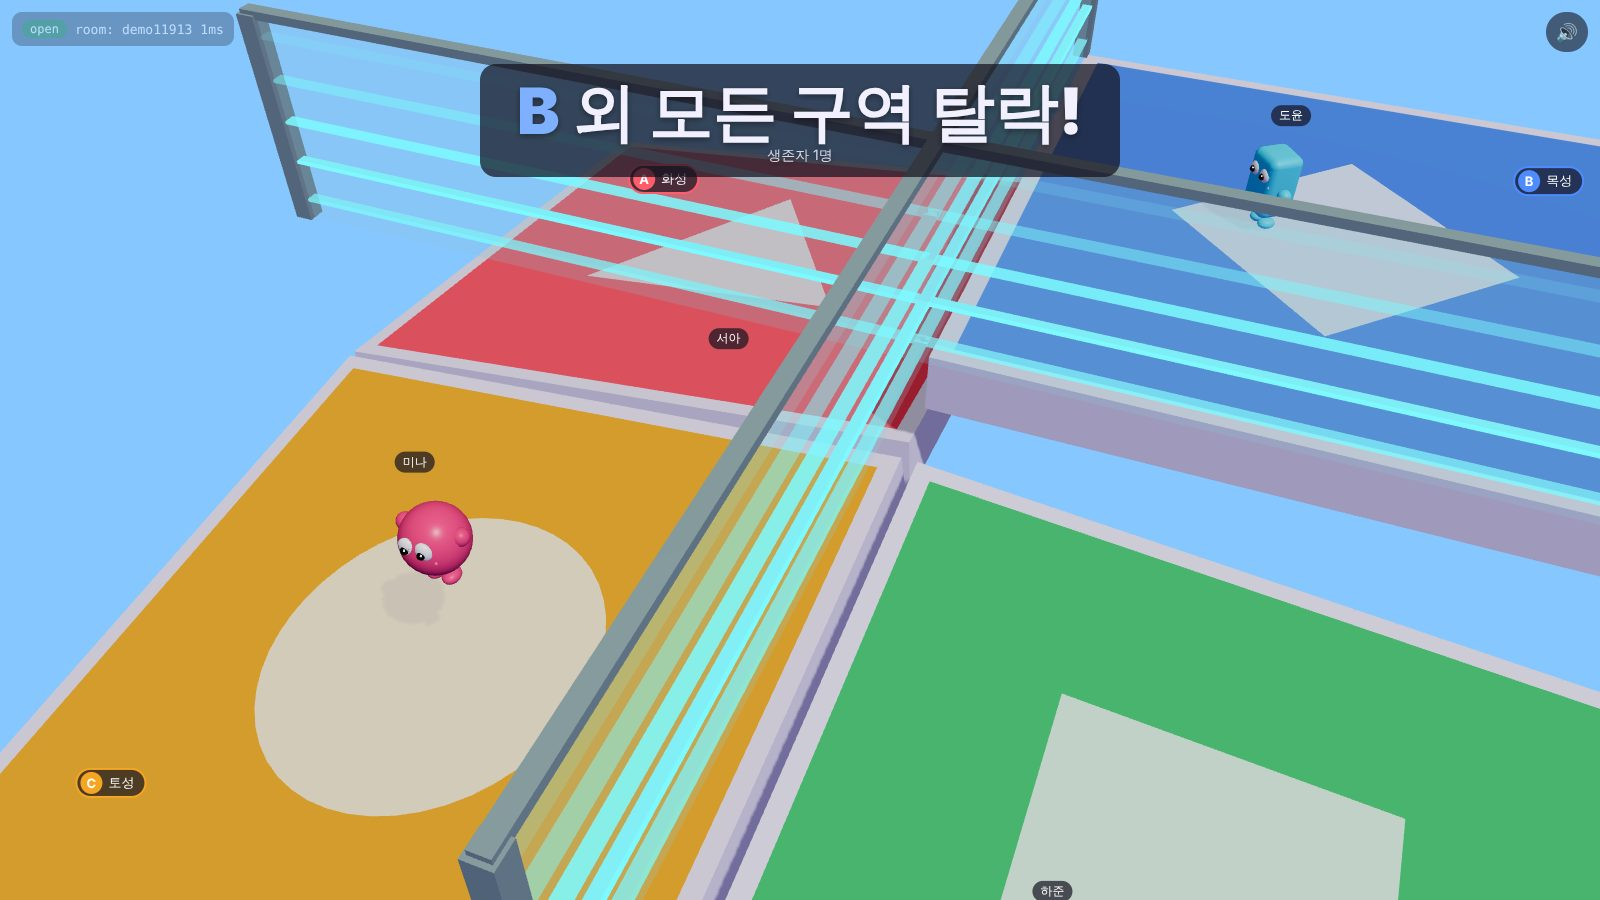
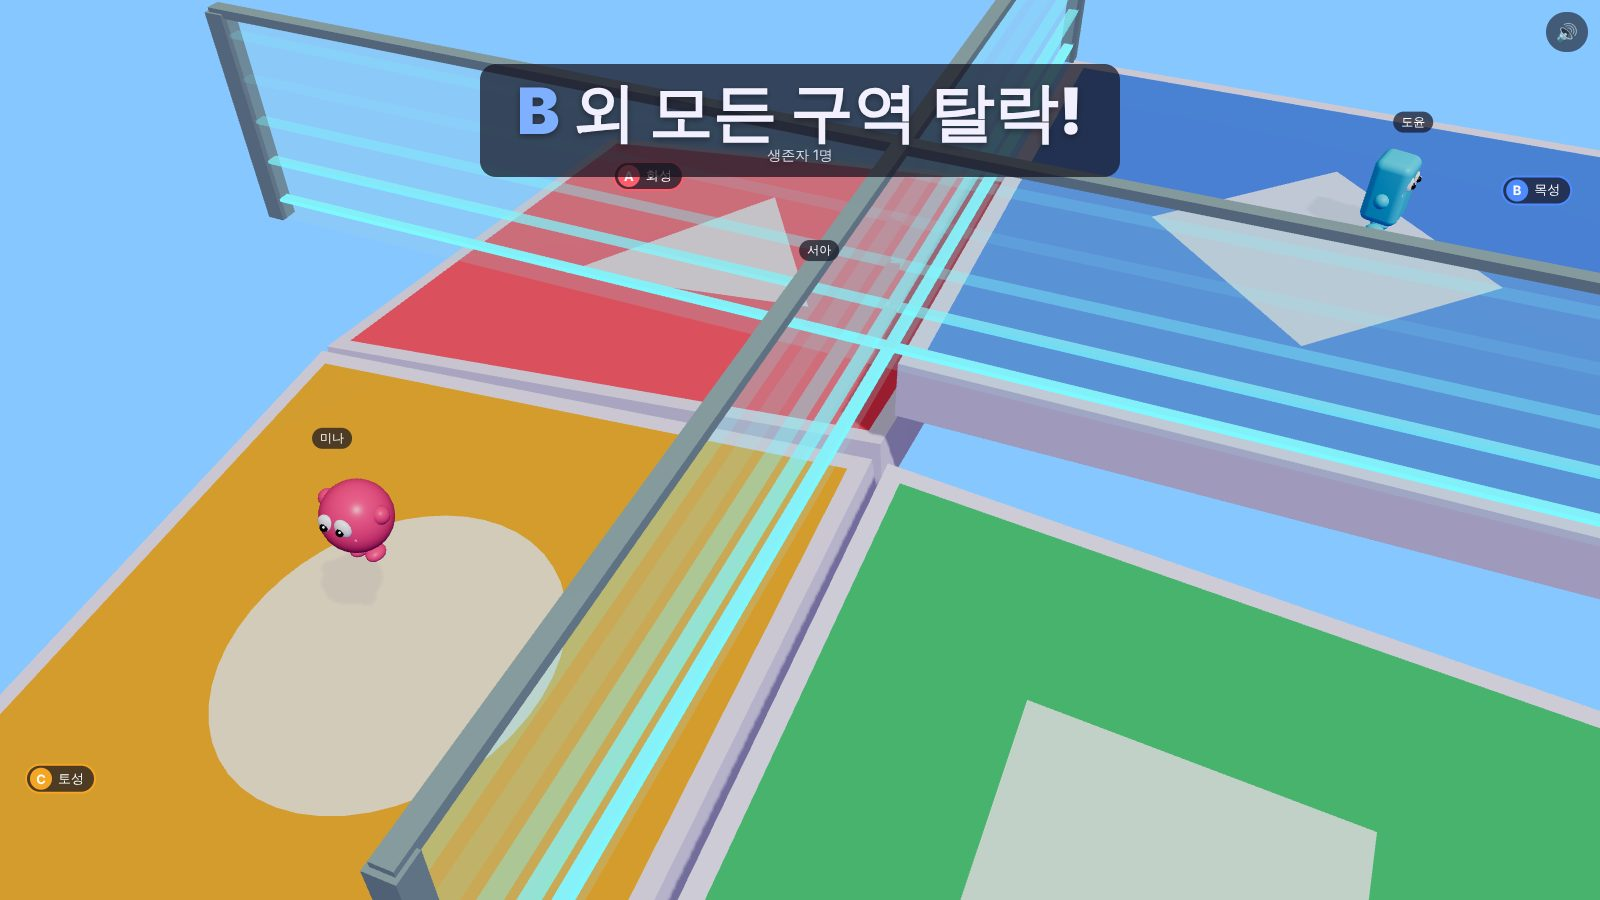
Simplify the player screen, fix Space re-clicking buttons, move grandstand across the board
- Remove the top-left status box (connection/room/latency/name/count) on /play
  and /display; show a small notice only while connecting or disconnected;
  control hint fades out after a few seconds
- Overlay buttons no longer keep keyboard focus, so pressing Space to jump
  can't re-trigger 'to board/stand', mute or leave
- Sound toggle joins the corner button row so the long autoplay label never
  overlaps Leave / spot buttons
- Grandstand moved to the far side of the board (-z): survivors see it ahead
  of them, and from the stand the board is straight ahead
- Grandstand label sits on the front wall and is hidden for players inside
- Retook README screenshots

Claude-Session: https://claude.ai/code/session_01BAZKdNH3MbDUtaJ8Sq72wR

diff --git a/frontend/src/pages/PlayPage.tsx b/frontend/src/pages/PlayPage.tsx
@@ -4,9 +4,10 @@ import { CLOSE_CODE, MAX_PLAYERS_PER_ROOM, isLobbyPhase } from "@quiz/shared";
 import { Canvas } from "@react-three/fiber";
 import { KeyboardControls } from "@react-three/drei";
 import { Physics } from "@react-three/rapier";
-import { ConnectionStatus } from "../components/ConnectionStatus";
+import { ConnectionNotice } from "../components/ConnectionNotice";
 import { useRoomConnection } from "../lib/useRoomConnection";
-import { useGameStore, useSelf, useSelfAlive } from "../store/useGameStore";
+import { stageButtonGuard } from "../lib/stageButtonGuard";
+import { useGameStore, useSelfAlive } from "../store/useGameStore";
 import { QuizBanner } from "../components/QuizBanner";
 import { SoundToggle } from "../components/SoundToggle";
 import { useGameAudio } from "../audio/useGameAudio";
@@ -47,7 +48,7 @@ function PlayScene() {
 
   return (
     <KeyboardControls map={KEYBOARD_MAP}>
-      <div className="stage">
+      <div className="stage" {...stageButtonGuard}>
         <Canvas shadows camera={{ position: CAMERA_OFFSET, fov: 50 }} dpr={[1, 2]}>
           <Suspense fallback={null}>
             <Physics gravity={PHYSICS_GRAVITY}>
@@ -58,15 +59,17 @@ function PlayScene() {
           </Suspense>
         </Canvas>
 
-        <PlayHud />
-        <SoundToggle />
+        <ConnectionNotice />
         <PlayCorner />
         <QuizBanner showSelfStatus />
         {/* 탈락 후에도 관전석에서 움직일 수 있으므로 조작 UI 유지 */}
         {showJoystick ? (
           <VirtualJoystick />
         ) : (
-          <div className="hint">{alive ? "WASD / 방향키 이동 · Space 점프" : "관전석 · WASD 이동 · Space 점프"}</div>
+          // 조작 안내는 처음 몇 초만 보이고 사라짐 (관전석으로 이동하면 다시 잠깐)
+          <div className="hint fade" key={alive ? "board" : "stand"}>
+            {alive ? "WASD / 방향키 이동 · Space 점프" : "관전석 · WASD 이동 · Space 점프"}
+          </div>
         )}
       </div>
     </KeyboardControls>
@@ -95,24 +98,6 @@ function SelfPlayer() {
       name={spawn.name}
       alive={alive}
     />
-  );
-}
-
-function PlayHud() {
-  const self = useSelf();
-  const count = useGameStore((s) => s.playerIds.length);
-  return (
-    <div className="hud">
-      <ConnectionStatus />
-      <div className="row mono" style={{ marginTop: 4 }}>
-        {self && (
-          <span>
-            <span style={{ color: self.color }}>●</span> {self.name}
-          </span>
-        )}
-        <span>참가자 {count}명</span>
-      </div>
-    </div>
   );
 }
 
@@ -155,6 +140,7 @@ function PlayCorner() {
 
   return (
     <div className="play-corner">
+      <SoundToggle inline />
       <button
         type="button"
         className="corner-btn"

diff --git a/frontend/src/game/SpectatorZone.tsx b/frontend/src/game/SpectatorZone.tsx
@@ -3,7 +3,7 @@ import { useFrame } from "@react-three/fiber";
 import { Html } from "@react-three/drei";
 import { CuboidCollider, RigidBody } from "@react-three/rapier";
 import type { Group, MeshStandardMaterial } from "three";
-import { SPECTATOR_ZONES, THROW_PADS, THROW_PAD_SIZE, type SpectatorZoneDef } from "@quiz/shared";
+import { SPECTATOR_ZONES, THROW_PADS, THROW_PAD_SIZE, isLobbyPhase, type SpectatorZoneDef } from "@quiz/shared";
 import { useGameStore } from "../store/useGameStore";
 import { audio } from "../audio/AudioManager";
 
@@ -83,9 +83,7 @@ function SpectatorBox({ zone, index }: { zone: SpectatorZoneDef; index: number }
         <Launcher key={p.index} position={[depth / 2, wh + 0.1, p.local[1]]} />
       ))}
 
-      <Html position={[-depth / 2, wh + 0.8, 0]} center zIndexRange={[10, 0]}>
-        <div className="zone-label">관전석 · 분홍 버튼을 밟으면 방해물 발사!</div>
-      </Html>
+      <ZoneLabel position={[depth / 2, wh + 0.9, 0]} />
     </RigidBody>
   );
 }
@@ -98,6 +96,24 @@ const BUTTON = {
   /** 눌렸을 때 버튼이 내려가는 깊이 */
   travel: 0.2,
 };
+
+/**
+ * 관전석 앞벽 위 안내 라벨 — 보드 쪽(생존자·송출 화면)에서 보이도록.
+ * 관전석 안에 있는 사람에게는 배너/배지로 안내하므로 숨긴다 (보드 한가운데 떠 보이지 않게).
+ */
+function ZoneLabel({ position }: { position: [number, number, number] }) {
+  const inStand = useGameStore((s) => {
+    const me = s.selfId ? s.players[s.selfId] : undefined;
+    if (!me) return false;
+    return !me.alive || (s.lobbySpot === "stand" && isLobbyPhase(s.game.phase));
+  });
+  if (inStand) return null;
+  return (
+    <Html position={position} center zIndexRange={[10, 0]}>
+      <div className="zone-label">관전석 · 분홍 버튼을 밟으면 방해물 발사!</div>
+    </Html>
+  );
+}
 
 /**
  * 투척 버튼 — 둥근 받침대 위에 튀어나온 입체 버튼 + sensor 충돌체.

diff --git a/frontend/src/index.css b/frontend/src/index.css
@@ -409,7 +409,9 @@ td, th { text-align: left; padding: 4px 6px; border-bottom: 1px solid #3b3755; }
 .spot-note { display: block; margin-top: 6px; opacity: .65; font-size: 12px; }
 @media (max-width: 400px) { .spot-grid { grid-template-columns: 1fr; } }
 
-.play-corner { position: absolute; top: 12px; right: 60px; z-index: 25; display: flex; gap: 6px; }
+/* 오른쪽 위 버튼 줄: [사운드] [나가기] [관전석으로] — 폭이 바뀌어도 서로 겹치지 않게 한 줄로 */
+.play-corner { position: absolute; top: 12px; right: 12px; z-index: 25; display: flex; flex-direction: row-reverse; gap: 6px; align-items: center; }
+.sound-toggle.inline { position: static; }
 .corner-btn {
   height: 40px; padding: 0 12px; border: 0; border-radius: 999px; cursor: pointer;
   background: rgba(20, 18, 31, .6); color: #fff; font-size: 14px; white-space: nowrap;
@@ -426,3 +428,11 @@ td, th { text-align: left; padding: 4px 6px; border-bottom: 1px solid #3b3755; }
   .corner-btn { height: 36px; font-size: 13px; }
   .spectator-pill { bottom: 250px; }
 }
+
+/* ───── 참가자 화면 단순화 ───── */
+.connection-notice {
+  position: absolute; top: 12px; left: 12px; z-index: 25; pointer-events: none;
+  background: rgba(20, 18, 31, .75); padding: 8px 14px; border-radius: 999px; font-size: 14px;
+}
+.connection-notice.error { background: rgba(163, 58, 74, .9); }
+.hint.fade { animation: fade-out .8s ease-in 6s forwards; }

diff --git a/frontend/src/pages/DisplayPage.tsx b/frontend/src/pages/DisplayPage.tsx
@@ -1,12 +1,13 @@
 import { Suspense } from "react";
 import { Canvas } from "@react-three/fiber";
 import { Physics } from "@react-three/rapier";
-import { ConnectionStatus } from "../components/ConnectionStatus";
+import { ConnectionNotice } from "../components/ConnectionNotice";
 import { QuizBanner } from "../components/QuizBanner";
 import { SoundToggle } from "../components/SoundToggle";
 import { ThrowFeed } from "../components/ThrowFeed";
 import { useGameAudio } from "../audio/useGameAudio";
 import { useRoomConnection } from "../lib/useRoomConnection";
+import { stageButtonGuard } from "../lib/stageButtonGuard";
 import { World } from "../game/World";
 import { PHYSICS_GRAVITY } from "../game/constants";
 import { RemotePlayers } from "../game/RemotePlayers";
@@ -21,7 +22,7 @@ export default function DisplayPage() {
   useGameAudio("display");
 
   return (
-    <div className="stage">
+    <div className="stage" {...stageButtonGuard}>
       <Canvas shadows dpr={[1, 2]}>
         <CameraDirector />
         <Suspense fallback={null}>
@@ -34,9 +35,7 @@ export default function DisplayPage() {
       <QuizBanner />
       <SoundToggle />
       <ThrowFeed />
-      <div className="hud display-hud">
-        <ConnectionStatus />
-      </div>
+      <ConnectionNotice />
     </div>
   );
 }

diff --git a/frontend/src/lib/stageButtonGuard.ts b/frontend/src/lib/stageButtonGuard.ts
@@ -1,0 +1,25 @@
+import type { KeyboardEvent, MouseEvent } from "react";
+
+/**
+ * 3D 게임 화면(.stage) 위 버튼들이 키보드 포커스를 가져가지 않게 하는 이벤트 핸들러 묶음.
+ *
+ * 버튼을 클릭하면 브라우저가 그 버튼에 포커스를 남기고, 이후 Space(점프)를 누르면
+ * 그 버튼이 다시 "클릭"된다 → 관전석 버튼이 보드로 바뀌거나, 음소거가 토글되는 버그.
+ *  - 클릭 직후 포커스 해제
+ *  - 포커스된 버튼에서 Space/Enter 기본 동작(클릭) 차단 → 게임 조작으로만 쓰이게
+ *
+ * 사용: <div className="stage" {...stageButtonGuard}>
+ */
+export const stageButtonGuard = {
+  onClickCapture(e: MouseEvent<HTMLElement>) {
+    const btn = (e.target as HTMLElement).closest("button");
+    // 클릭 핸들러(확인창 등)가 끝난 뒤에 포커스 해제
+    if (btn) setTimeout(() => btn.blur(), 0);
+  },
+  onKeyDownCapture(e: KeyboardEvent<HTMLElement>) {
+    if ((e.code === "Space" || e.key === "Enter") && (e.target as HTMLElement).closest("button")) {
+      e.preventDefault();
+      (e.target as HTMLElement).blur();
+    }
+  },
+};

diff --git a/frontend/src/components/SoundToggle.tsx b/frontend/src/components/SoundToggle.tsx
@@ -2,12 +2,12 @@ import { audio } from "../audio/AudioManager";
 import { useAudioState } from "../audio/useGameAudio";
 
 /** 우측 상단 음소거 토글. 브라우저가 소리를 막고 있으면 "사운드 켜기" 안내로 바뀜 */
-export function SoundToggle() {
+export function SoundToggle({ inline = false }: { inline?: boolean }) {
   const { muted, locked } = useAudioState();
 
   if (locked && !muted) {
     return (
-      <button type="button" className="sound-toggle locked" aria-label="사운드 켜기" onClick={() => audio.unlock()}>
+      <button type="button" className={`sound-toggle locked ${inline ? "inline" : ""}`} aria-label="사운드 켜기" onClick={() => audio.unlock()}>
         🔇<span className="sound-toggle-label"> 클릭해서 사운드 켜기</span>
       </button>
     );
@@ -15,7 +15,7 @@ export function SoundToggle() {
   return (
     <button
       type="button"
-      className="sound-toggle"
+      className={`sound-toggle ${inline ? "inline" : ""}`}
       aria-label={muted ? "소리 켜기" : "소리 끄기"}
       aria-pressed={muted}
       onClick={() => audio.setMuted(!muted)}

diff --git a/shared/src/protocol.ts b/shared/src/protocol.ts
@@ -279,11 +279,13 @@ const GRANDSTAND_SIZE: [number, number] = [8, 36];
 const GRANDSTAND_GAP = 4;
 
 /**
- * 관전석 — 메인 카메라 기준 보드 정면 앞쪽(+z)에 가로로 길게 뻗은 단일 관전석.
+ * 관전석 — 보드 건너편(-z)에 가로로 길게 뻗은 단일 관전석.
+ *  - 생존자 카메라는 +z 쪽에서 -z 를 바라보므로, 생존자 화면에서 관전석이 정면(화면 위쪽)에 보인다
+ *  - 관전석에 들어가면 반대로 +z(보드 쪽)를 바라봐서 정면에 생존자석(보드)이 보인다
  * 앞벽(보드 쪽)을 따라 투척 버튼 5개가 같은 간격으로 놓인다.
  */
 export const SPECTATOR_ZONES: readonly SpectatorZoneDef[] = [
-  makeZone(0, BOARD_SIZE / 2 + GRANDSTAND_GAP + GRANDSTAND_SIZE[0] / 2, GRANDSTAND_SIZE, [-14, -7, 0, 7, 14]),
+  makeZone(0, -(BOARD_SIZE / 2 + GRANDSTAND_GAP + GRANDSTAND_SIZE[0] / 2), GRANDSTAND_SIZE, [-14, -7, 0, 7, 14]),
 ];
 
 /** 관전석 로컬 좌표(lx: 앞뒤, lz: 좌우) → 월드 (x, z) */

diff --git a/frontend/src/components/ConnectionNotice.tsx b/frontend/src/components/ConnectionNotice.tsx
@@ -1,0 +1,17 @@
+import { useGameStore } from "../store/useGameStore";
+
+/**
+ * 연결에 문제가 있을 때만 나타나는 작은 안내 (/play, /display).
+ * 평소(연결됨)에는 아무것도 보여주지 않아 화면을 깔끔하게 유지한다.
+ */
+export function ConnectionNotice() {
+  const status = useGameStore((s) => s.status);
+  const hasJoined = useGameStore((s) => !!s.selfId);
+  if (status === "open" && hasJoined) return null;
+  const text = status === "closed" ? "연결이 끊겼어요 · 다시 연결하는 중…" : "연결하는 중…";
+  return (
+    <div className={`connection-notice ${status === "closed" ? "error" : ""}`} role="status">
+      {text}
+    </div>
+  );
+}

diff --git a/README.md b/README.md
@@ -26,17 +26,17 @@
 | 라운드 결과 | 송출 화면 (대기 중) |
 |---|---|
 | ![라운드 결과](docs/screenshots/round-standings.jpg) | ![대기](docs/screenshots/display-waiting.jpg) |
-| 문제가 끝나면 생존·탈락·남은 문제 수를 보여 주고, 방장이 넘길 때까지 기다립니다 | 보드 정면 앞쪽에 가로로 긴 관전석과 분홍 투척 버튼 5개가 보입니다 |
+| 문제가 끝나면 생존·탈락·남은 문제 수를 보여 주고, 방장이 넘길 때까지 기다립니다 | 보드 건너편에 가로로 긴 관전석과 분홍 투척 버튼 5개가 보입니다 |
 
 | 4지선다 모드 + 방해물 투척 | 십자 차단벽 + 3구역 탈락 |
 |---|---|
 | ![4지선다](docs/screenshots/multiple-question.jpg) | ![4지선다 탈락](docs/screenshots/multiple-elimination.jpg) |
-| 보드가 A·B·C·D 네 구역으로 나뉩니다. 앞쪽 관전석에서 탈락자들이 방해물을 던지고 있어요 (왼쪽 아래 알림) | 시간 종료 직전 십자(➕) 유리벽이 솟아 구역 이동을 막습니다 |
+| 보드가 A·B·C·D 네 구역으로 나뉩니다. 건너편 관전석에서 탈락자들이 방해물을 던지고 있어요 (왼쪽 아래 알림) | 시간 종료 직전 십자(➕) 유리벽이 솟아 구역 이동을 막습니다 |
 
 | 탈락자 관전석 (투척 버튼) | 우승자 피날레 |
 |---|---|
 | ![관전석 투척 버튼](docs/screenshots/spectator-zone.jpg) | ![우승](docs/screenshots/winner.jpg) |
-| 보드 정면의 긴 관전석. 분홍 버튼을 밟으면 벽 위 발사대에서 방해물이 날아갑니다 | 최후의 1인에게 카메라가 줌인하고 머리 위로 색종이가 터집니다. 뒤쪽 관전석에서 탈락자들이 지켜봐요 |
+| 관전석 안에서는 정면에 생존자석(보드)이 보입니다. 분홍 버튼을 밟으면 벽 위 발사대에서 방해물이 날아갑니다 | 최후의 1인에게 카메라가 줌인하고 머리 위로 색종이가 터집니다. 뒤쪽 관전석에서 탈락자들이 지켜봐요 |
 
 ![투척 버튼: 밟으면 쏙 눌리고(왼쪽), 떼면 다시 튀어나옵니다(오른쪽)](docs/screenshots/throw-button.jpg)
 
@@ -61,7 +61,7 @@
 | 경로 | 누가 쓰나 | 내용 |
 |---|---|---|
 | `/` | 참가자 | 로비 (닉네임·방 코드·캐릭터·입장 위치 선택) |
-| `/play?room=…` | 참가자 | 3D 플레이 화면 (PC: WASD/방향키 + Space, 모바일: 조이스틱). 오른쪽 위 **[나가기]**, 대기 중에는 **[관전석으로 / 보드로]** |
+| `/play?room=…` | 참가자 | 3D 플레이 화면 (PC: WASD/방향키 + Space, 모바일: 조이스틱). 화면에는 필요한 것만: 퀴즈 배너, 오른쪽 위 **[사운드] [나가기]**, 대기 중 **[관전석으로 / 보드로]**. 연결이 끊겼을 때만 안내가 나타납니다 |
 | `/admin?room=…` | 진행자 | **방장 비밀번호 로그인** 후 퀴즈 세트 만들기, 게임 시작, 다음 문제 출제, 게임 중단 |
 | `/display?room=…` | 방송 송출 | UI를 최소화한 관전 뷰, 게임 단계별 다이나믹 카메라 |
 
@@ -205,7 +205,7 @@ waiting ─[게임 시작]→ countdown 3s → question_active N초 → reveal 3
 
 ## 탈락자 방해물 투척
 
-관전석은 **보드 정면 앞쪽(메인 카메라 쪽)에 가로로 길게 뻗은 그랜드스탠드 1곳**(가로 36 × 깊이 8)입니다. 보드를 향한 앞벽을 따라 분홍색 **투척 버튼 5개**가 같은 간격으로 놓여 있습니다. 둥근 받침대 위에 튀어나온 버튼이라 밟으면 '딸깍' 하고 쏙 눌리고, 보드 쪽 유리벽 위의 발사대에서 방해물이 포물선을 그리며 날아갑니다. 버튼 눌림은 송출 화면을 포함한 모든 화면에 보입니다. 관전석 안에서는 W가 보드 쪽 직진, A/D가 좌우 이동입니다.
+관전석은 **보드 건너편에 가로로 길게 뻗은 그랜드스탠드 1곳**(가로 36 × 깊이 8)입니다. 생존자 화면에서는 정면(화면 위쪽)에 관전석이 보이고, 관전석에 들어가면 반대로 정면에 생존자석(보드)이 보입니다. 보드를 향한 앞벽을 따라 분홍색 **투척 버튼 5개**가 같은 간격으로 놓여 있습니다. 둥근 받침대 위에 튀어나온 버튼이라 밟으면 '딸깍' 하고 쏙 눌리고, 보드 쪽 유리벽 위의 발사대에서 방해물이 포물선을 그리며 날아갑니다. 버튼 눌림은 송출 화면을 포함한 모든 화면에 보입니다. 관전석 안에서는 W가 보드 쪽 직진, A/D가 좌우 이동입니다.
 
 | 방해물 | 특징 |
 |---|---|
